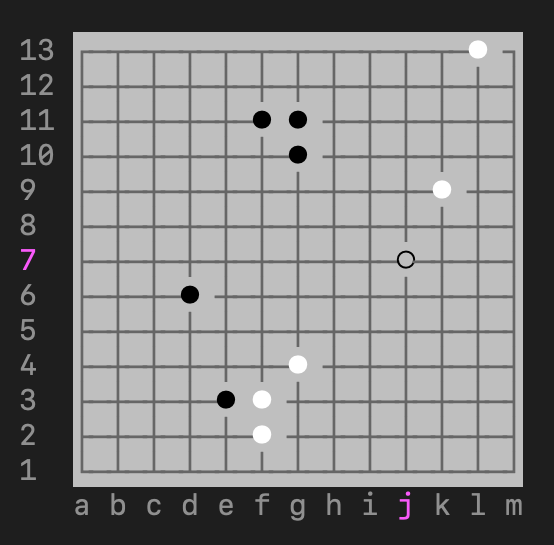
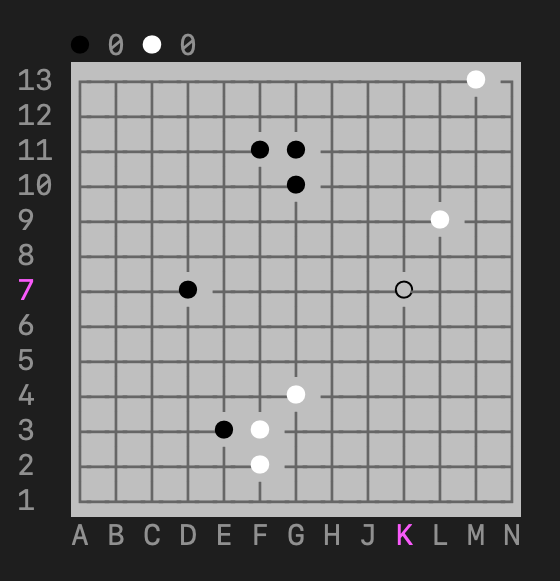
Updated go.py screenshot
Added black/white captures count and fixed lower letters on board

Changed region(s): [[0.1227, 0.0312, 0.9513, 0.967], [0.0307, 0.0624, 0.0921, 0.9046]]

diff --git a/go.py b/go.py
@@ -15,7 +15,7 @@ class Go(object):
     def __init__(self, cursor=[18,0], starter=1, board_size=19, board_bg=44, show_debug=False):
         self.starting_color, self.board_size, self.board_bg, self.show_debug = starter, board_size, board_bg, show_debug
         self.moves, self.current_move, self.current_turn = [[]], [], starter
-        self.white_score, self.black_score, self.white_moves, self.black_moves = 0, 0, 0, 0
+        self.white_score, self.black_score, self.white_moves, self.black_moves, self.white_captures, self.black_captures = 0, 0, 0, 0, 0, 0
         self.state_count, self.cursor_item = 0, cursor
         self.current_cursor, self.previous_cursor = [], []
         # self.previous, self.color = [], color
@@ -84,15 +84,10 @@ class Go(object):
         #     # print(" self.blue_captures:    {}".format(self.colors[2].format(','.join([self.colors[2].format(x) for x in self.blue_captures]))))
         #     # print(" self.red_captures:     {}".format(self.colors[1].format(','.join([self.colors[2].format(x) for x in self.red_captures]))))
 
-        # red captures top
-        # print("\n    {} {} {} {} {} {}".format(
-        #     ''.join([self.pieces[x].replace(' ', '') for x in self.red_captures if x == 6]),
-        #     ''.join([self.pieces[x].replace(' ', '') for x in self.red_captures if x == 3]),
-        #     ''.join([self.pieces[x].replace(' ', '') for x in self.red_captures if x == 2]),
-        #     ''.join([self.pieces[x].replace(' ', '') for x in self.red_captures if x == 1]),
-        #     ''.join([self.pieces[x].replace(' ', '') for x in self.red_captures if x == 4]),
-        #     ''.join([self.pieces[x].replace(' ', '') for x in self.red_captures if x == 5]) 
-        # ))
+        # black captures
+        print("    {}{}".format(self.colors[0].format("●"), self.colors[-1].format(" %s" % (self.black_captures))), end="")
+        # white captures
+        print(" {}{}".format(self.colors[1].format("●"), self.colors[-1].format(" %s" % (self.white_captures))))
 
         for row_index, row in enumerate(self.board):
             if -(self.cursor_item[0]-self.board_size) == row_num:
@@ -126,24 +121,10 @@ class Go(object):
 
             print()
         
-        # letters
-        for i in range(0,self.board_size):
-            if self.cursor_item[1] == i:
-                letters += "\033[95m {}\033[0m".format(string.ascii_lowercase[i]) # pink letter
-            else:
-                letters += "\033[90m {}\033[0m".format(string.ascii_lowercase[i]) # grey letter
-
+        # bottom letters
+        letters = ''.join(["\033[{}m {}\033[0m".format((95 if self.cursor_item[1] == i else 90), string.ascii_uppercase.replace("I", "")[i]) for i in range(0,self.board_size)])
         print("   {}{}\n".format("" if (self.board_size >= 13) else "", letters), end="")
 
-        # blue captures bottom
-        # print("\n    {} {} {} {} {} {}".format(
-        #     ''.join([self.pieces[x].replace(' ', '') for x in self.blue_captures if x == 12]),
-        #     ''.join([self.pieces[x].replace(' ', '') for x in self.blue_captures if x == 9]),
-        #     ''.join([self.pieces[x].replace(' ', '') for x in self.blue_captures if x == 8]),
-        #     ''.join([self.pieces[x].replace(' ', '') for x in self.blue_captures if x == 7]),
-        #     ''.join([self.pieces[x].replace(' ', '') for x in self.blue_captures if x == 10]),
-        #     ''.join([self.pieces[x].replace(' ', '') for x in self.blue_captures if x == 11]) 
-        # ))
 
         print("\n ⭠ ⭡⭣ ⭢  to move.\n SPACE to select.\n ESC to exit.\n")
 
